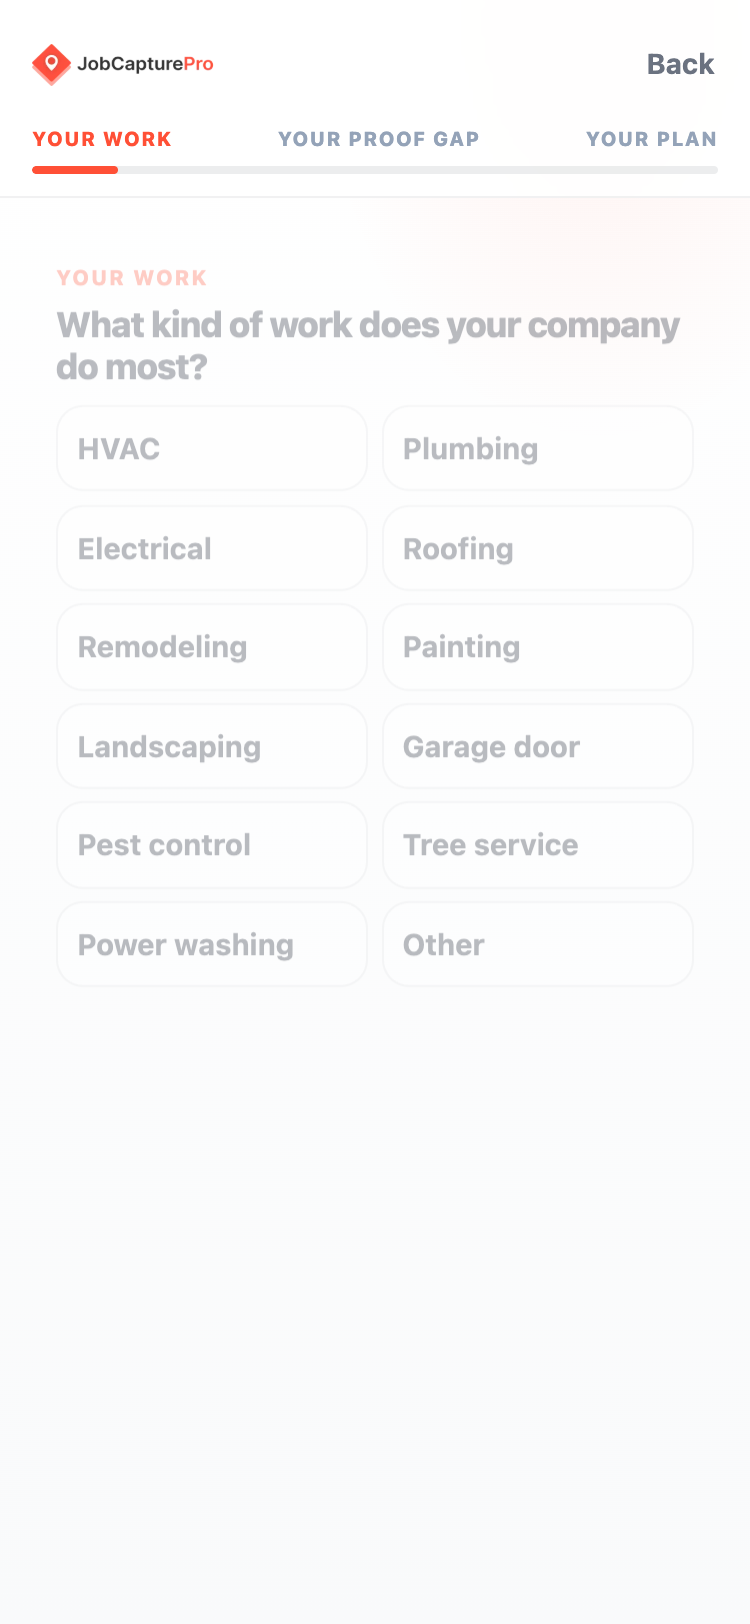
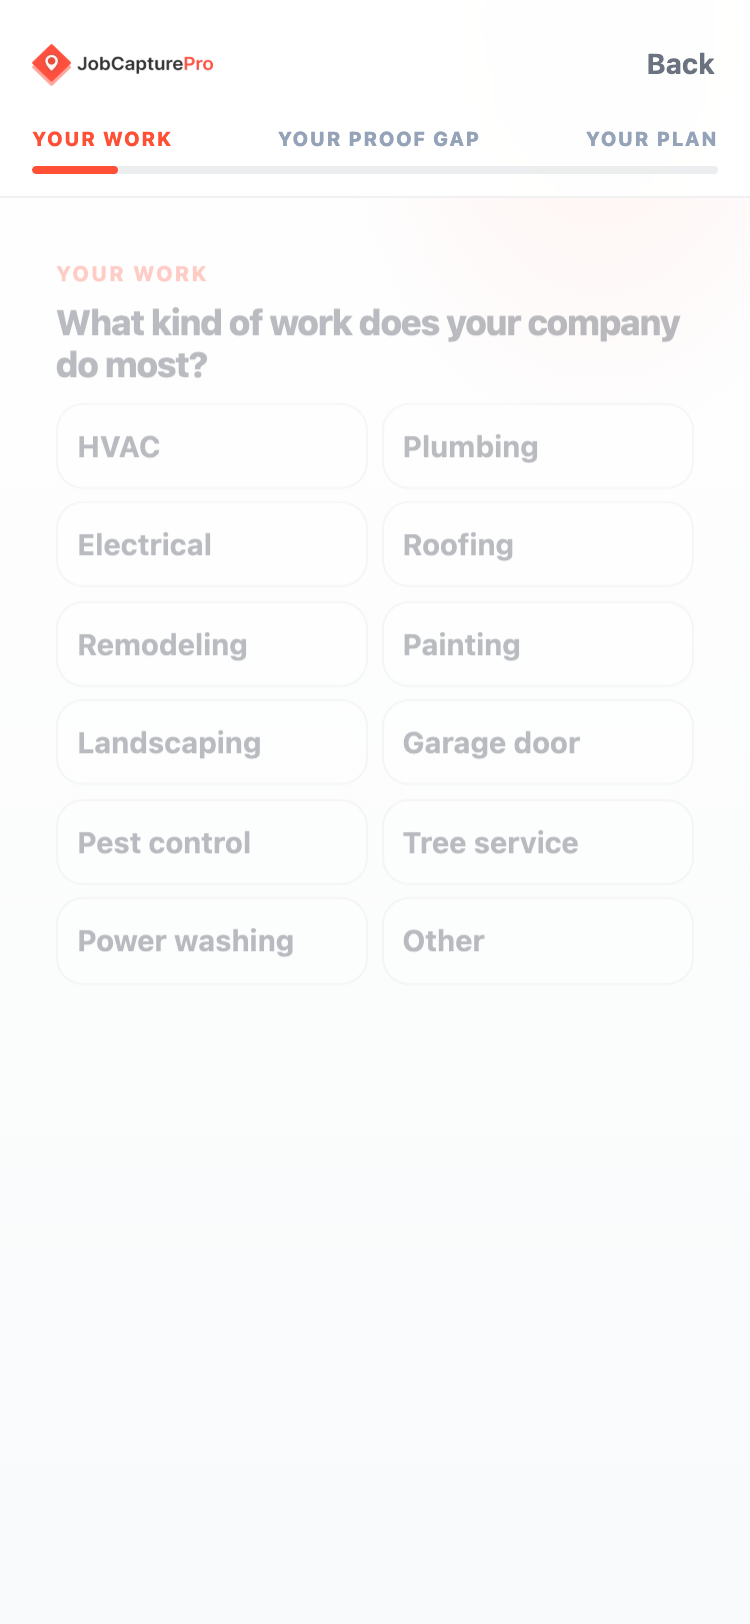
Tighten /proof-gap/ stage spacing against the in-flow action rail.

diff --git a/css/pages/proof-gap.css b/css/pages/proof-gap.css
@@ -191,13 +191,13 @@ body.jcp-proof-gap .pg-stage {
   overflow-x: hidden;
   overflow-y: auto;
   -webkit-overflow-scrolling: touch;
-  padding: 1.15rem var(--pg-gutter) calc(var(--pg-bottom-pad) + 0.5rem);
+  padding: 1.05rem var(--pg-gutter) 0.85rem;
   display: flex;
   flex-direction: column;
 }
 
 body.jcp-proof-gap.pg-has-bottom-action .pg-stage {
-  padding-bottom: calc(var(--pg-bottom-pad) + 0.75rem);
+  padding-bottom: 0.65rem;
 }
 
 body.jcp-proof-gap .pg-state {
